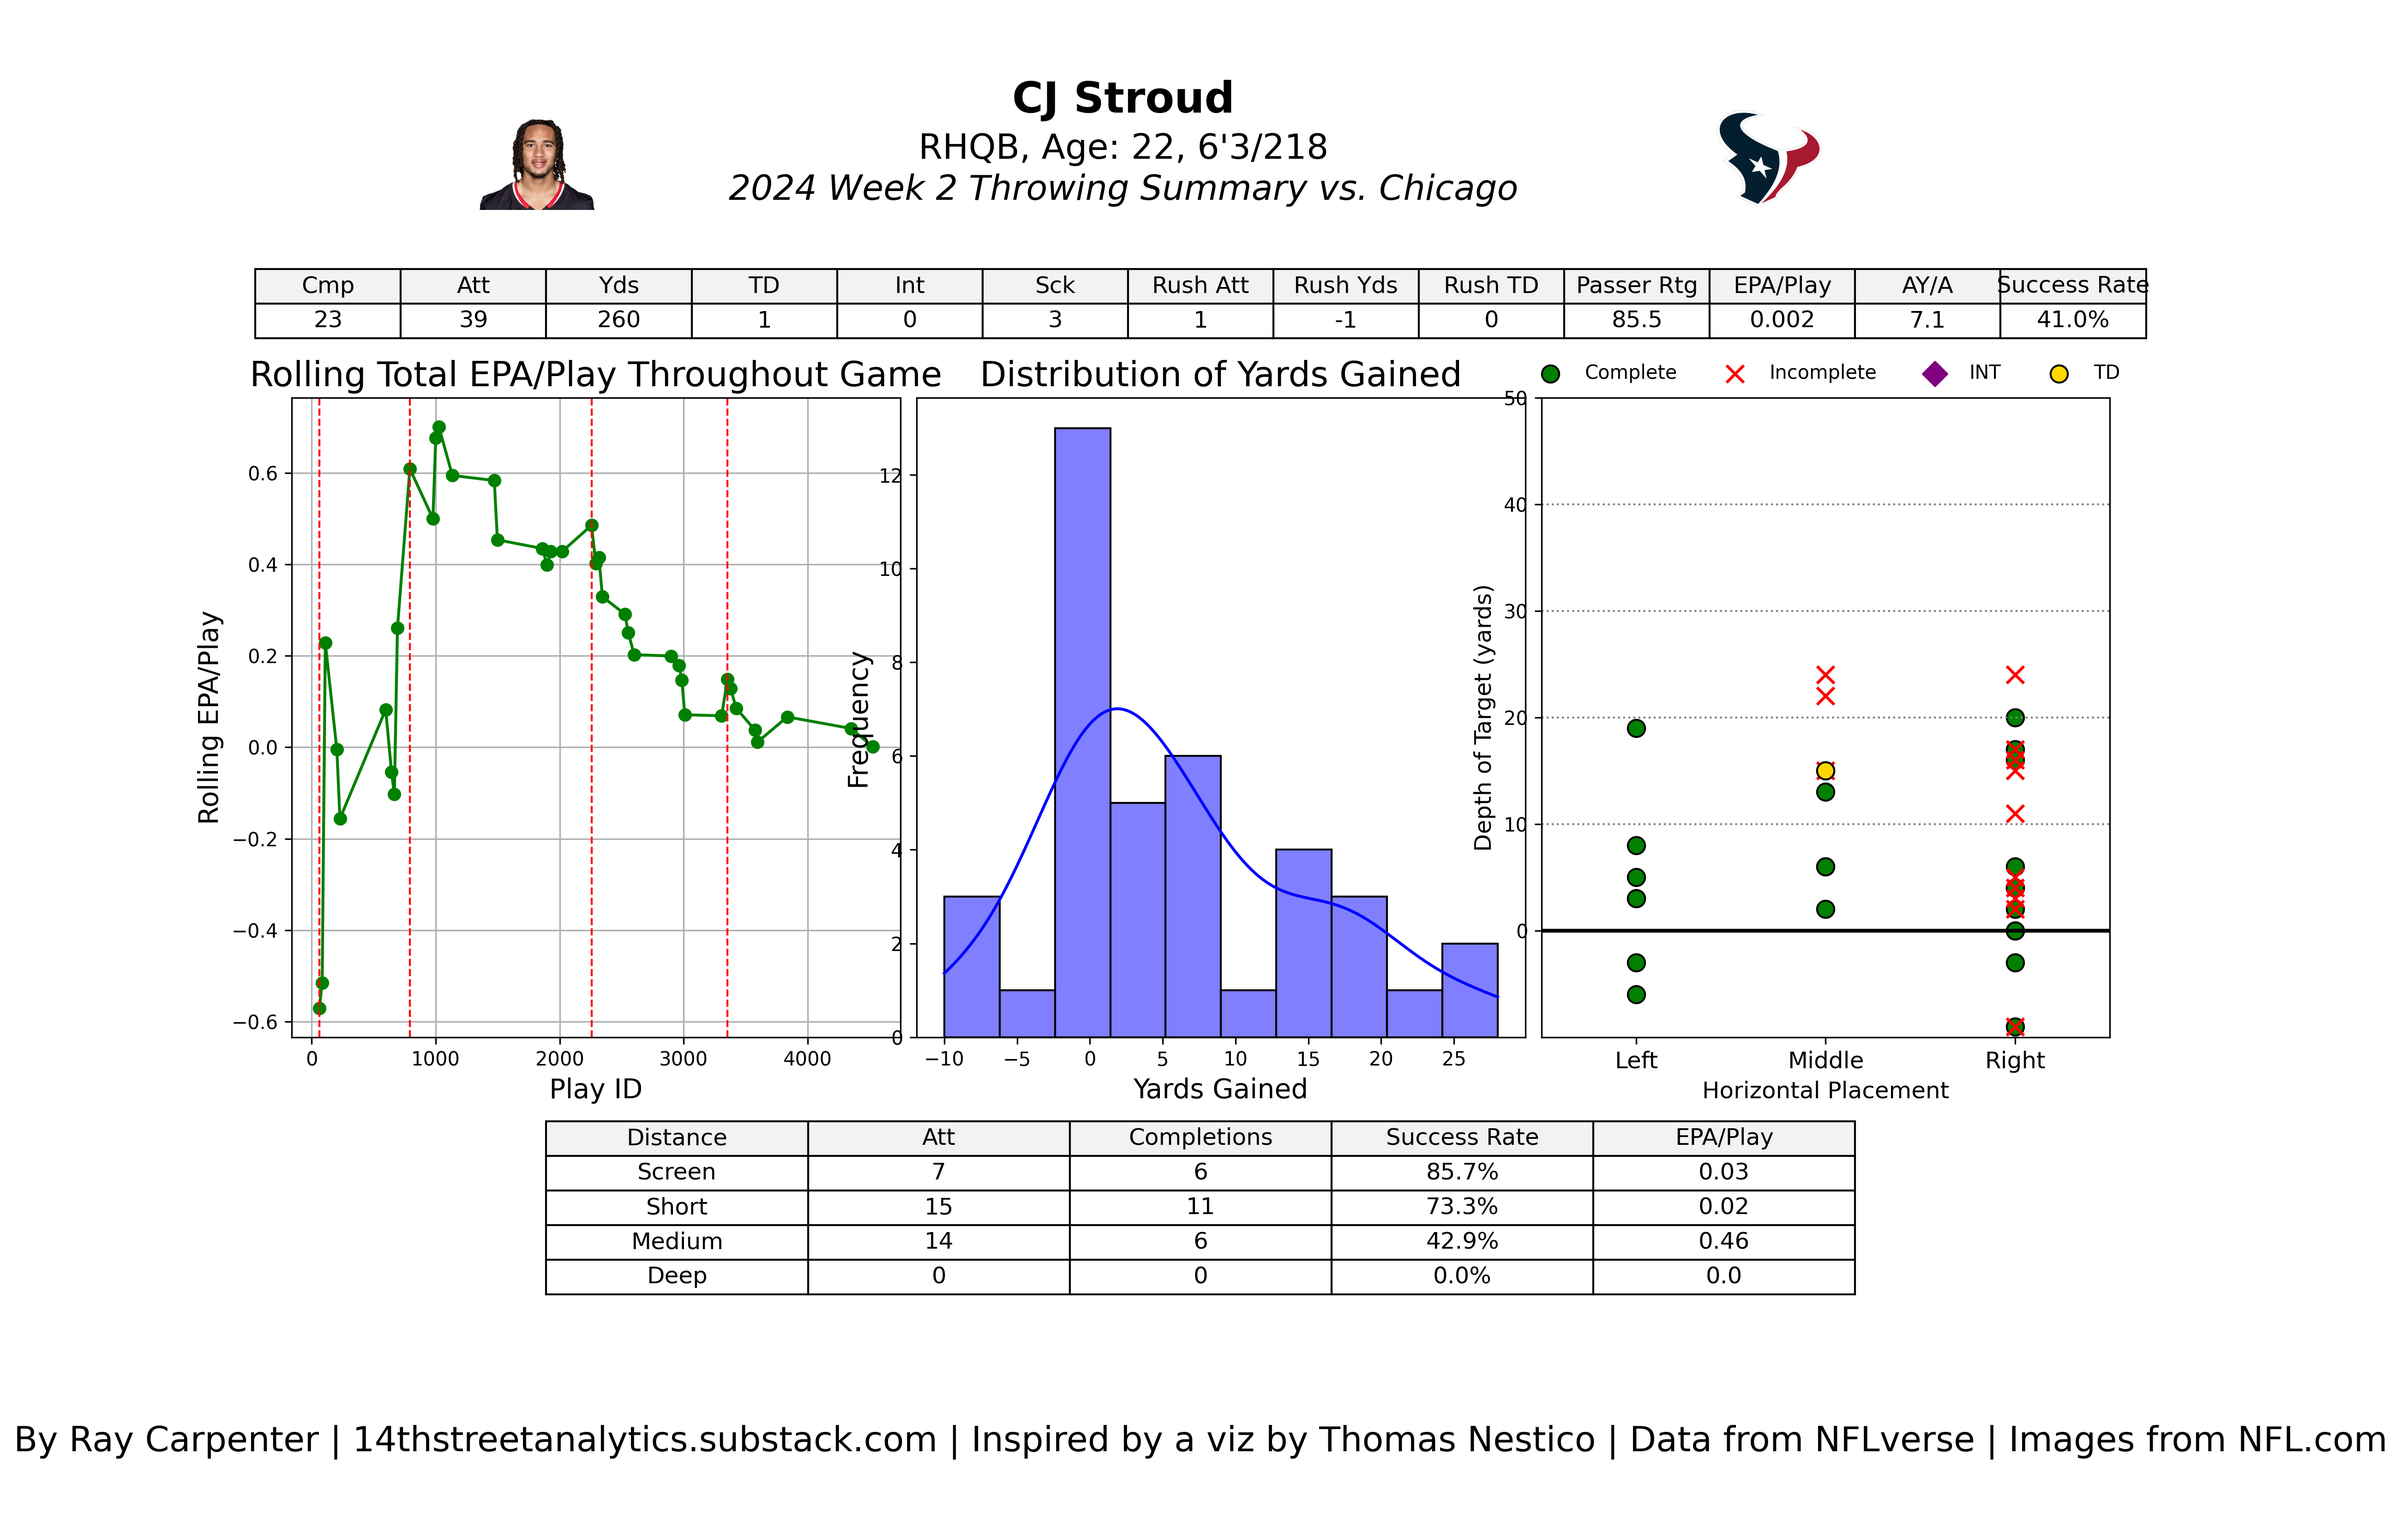
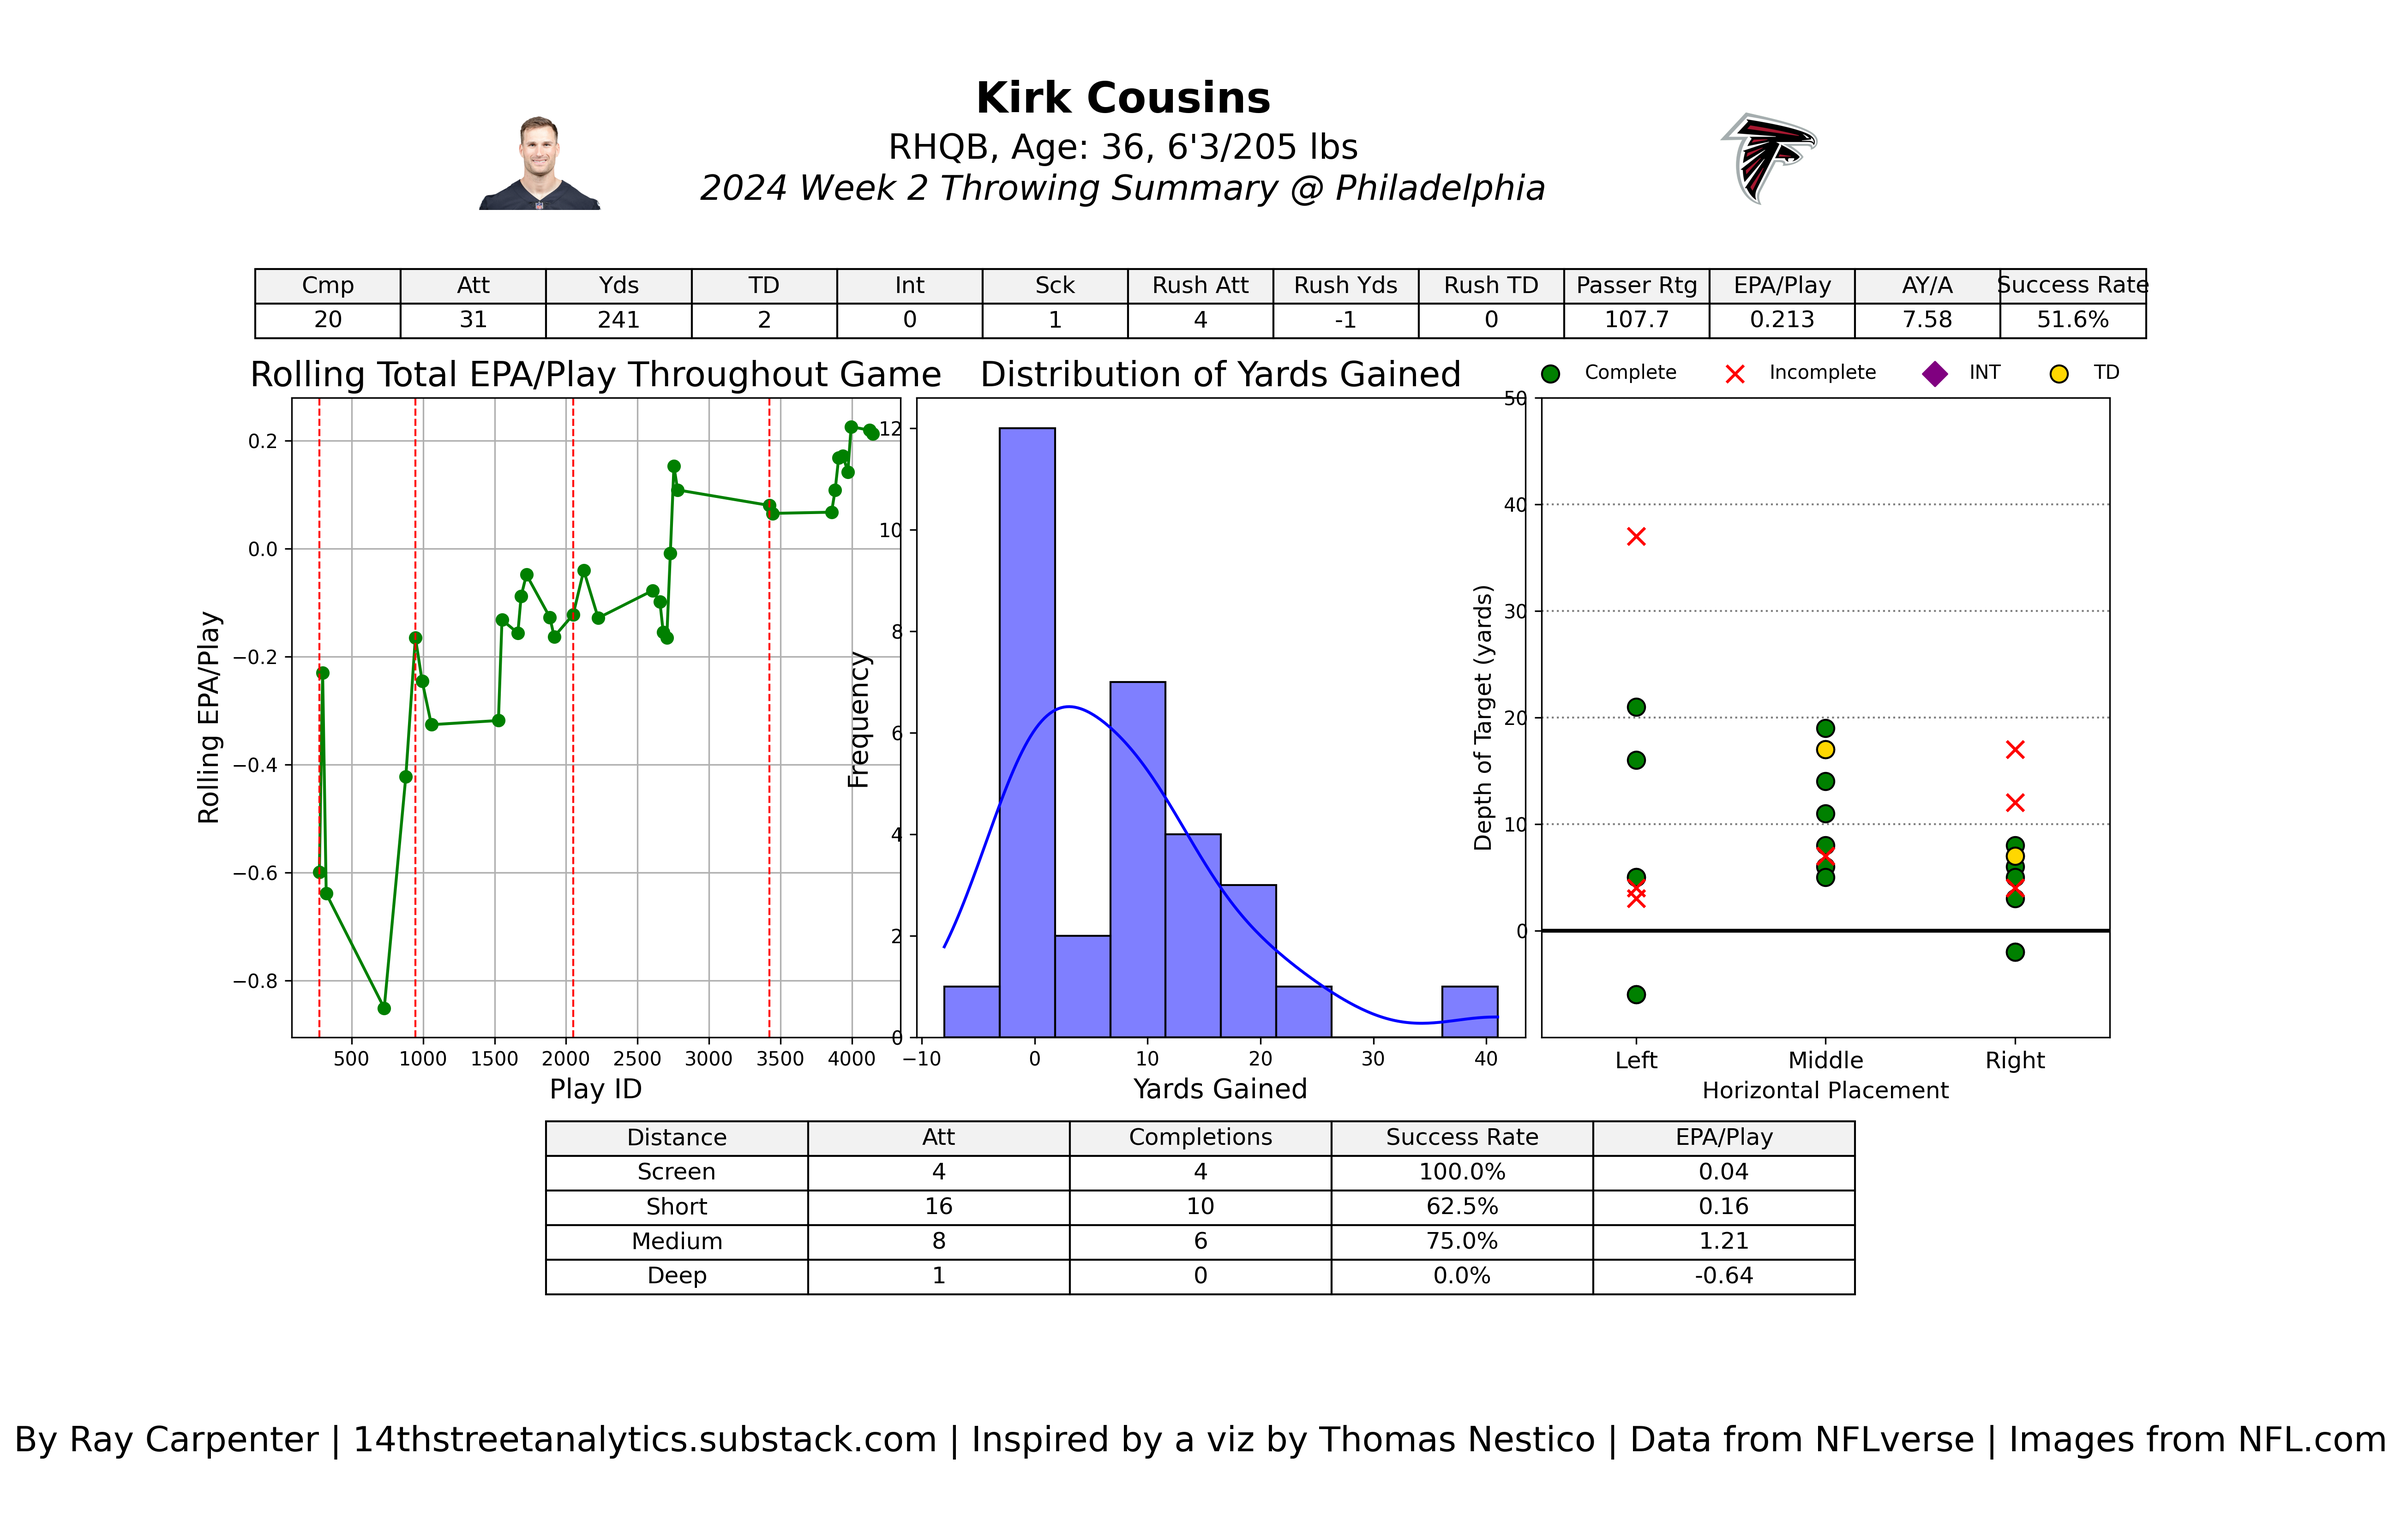
Week 2 edits

diff --git a/throwing_summary/throwing_summary.py b/throwing_summary/throwing_summary.py
@@ -45,7 +45,7 @@ def player_headshot(player_id: str, ax: plt.Axes):
 qb_info = pd.read_csv('C:/Users/RaymondCarpenter/Documents/GitHub/14thstreetanalytics/throwing_summary/qb_info.csv')
 
 # Retrieve player info based on player name
-player_name = 'CJ Stroud'  # Make sure this matches the format in the CSV
+player_name = 'Kirk Cousins'  # Make sure this matches the format in the CSV
 player_info = qb_info[qb_info['Name'] == player_name].iloc[0]
 
 # Get the player ID from the CSV and use it to fetch the headshot
@@ -53,15 +53,15 @@ player_id = player_info['player_id']
 headshot = get_espn_headshot(player_id)
 
 # Manual filters start here
-filtered_df = data[(data['home_team'] == 'HOU') | (data['away_team'] == 'HOU')] ### change team RAMS are LA Chargers are LAC
+filtered_df = data[(data['home_team'] == 'ATL') | (data['away_team'] == 'ATL')] ### change team RAMS are LA Chargers are LAC
 
 # Separate filters for passing and rushing plays
-passing_plays = filtered_df[filtered_df['passer_player_name'] == 'C.Stroud'] ### change qb
-rushing_plays = filtered_df[filtered_df['rusher_player_name'] == 'C.Stroud'] ### change qb
+passing_plays = filtered_df[filtered_df['passer_player_name'] == 'K.Cousins'] ### change qb
+rushing_plays = filtered_df[filtered_df['rusher_player_name'] == 'K.Cousins'] ### change qb
 
 # Filter game data by game id
-game_data_passing = passing_plays[passing_plays['game_id'] == '2024_02_CHI_HOU'] ### follow format YEAR_WEEK_AWAY_HOME 2023_12_BUF_PHI
-game_data_rushing = rushing_plays[rushing_plays['game_id'] == '2024_02_CHI_HOU']
+game_data_passing = passing_plays[passing_plays['game_id'] == '2024_02_ATL_PHI'] ### follow format YEAR_WEEK_AWAY_HOME 2023_12_BUF_PHI
+game_data_rushing = rushing_plays[rushing_plays['game_id'] == '2024_02_ATL_PHI']
 
 # Calculate cumulative completions and attempts for passing plays
 game_data_passing['cumulative_completions'] = game_data_passing['complete_pass'].cumsum()
@@ -202,14 +202,14 @@ summary_table = {
 # Create the updated summary DataFrame
 summary_df = pd.DataFrame.from_dict(summary_table)
 
-player_name = 'CJ Stroud' 
+player_name = 'Kirk Cousins' 
 player_info = qb_info[qb_info['Name'] == player_name].iloc[0]
 
 # Get the player ID from the CSV and fetch the headshot
 player_id = player_info['player_id']
 headshot = get_espn_headshot(player_id)
 
-logo_path = '/Users/raymondcarpenter/Documents/GitHub/14thstreetanalytics/throwing_summary/texans_logo.png' # manually find logo path
+logo_path = '/Users/raymondcarpenter/Documents/GitHub/14thstreetanalytics/throwing_summary/falcons_logo.png' # manually find logo path
 logo = Image.open(logo_path)
 
 def qb_dashboard(game_data_passing: pd.DataFrame, headshot: Image, logo: Image, summary_df: pd.DataFrame, pass_distance_summary: pd.DataFrame, quarter_positions, save_path: str = None):
@@ -251,11 +251,19 @@ def qb_dashboard(game_data_passing: pd.DataFrame, headshot: Image, logo: Image, 
     ax_logo.imshow(logo)    
     ax_logo.axis('off')
 
-    # Biographical Information with adjusted horizontal and vertical space
-    ax_bio.text(0.5, 0.95, 'CJ Stroud', fontsize=22, ha='center', fontweight='bold')  # manual
-    ax_bio.text(0.5, 0.50, 'RHQB, Age: 22, 6\'3/218', fontsize=18, ha='center')  # manual
-    ax_bio.text(0.5, 0.1, '2024 Week 2 Throwing Summary vs. Chicago', fontsize=18, ha='center', fontstyle='italic')  # manual
+# Retrieve player info based on player name
+    player_info = qb_info[qb_info['Name'] == player_name].iloc[0]
+
+# Extract relevant data
+    player_height = player_info['Height']  # Assuming 'Height' is stored in feet and inches as '6\'3"'      
+    player_weight = player_info['Weight']  # Assuming weight is stored as an integer value
+
+# Adjust biographical information display
+    ax_bio.text(0.5, 0.95, player_name, fontsize=22, ha='center', fontweight='bold')  # Dynamically display QB name
+    ax_bio.text(0.5, 0.50, f'{player_info['dexterity']}HQB, Age: {player_info["Age"]}, {player_height}/{player_weight} lbs', fontsize=18, ha='center')  # Dynamically display height and weight
+    ax_bio.text(0.5, 0.1, f'2024 Week 2 Throwing Summary @ Philadelphia', fontsize=18, ha='center', fontstyle='italic')  # Still manually set game information
     ax_bio.axis('off')
+
 
     # Summary Table Plot - Adjusted for more compact cells
     ax_summary_table.axis('off')
